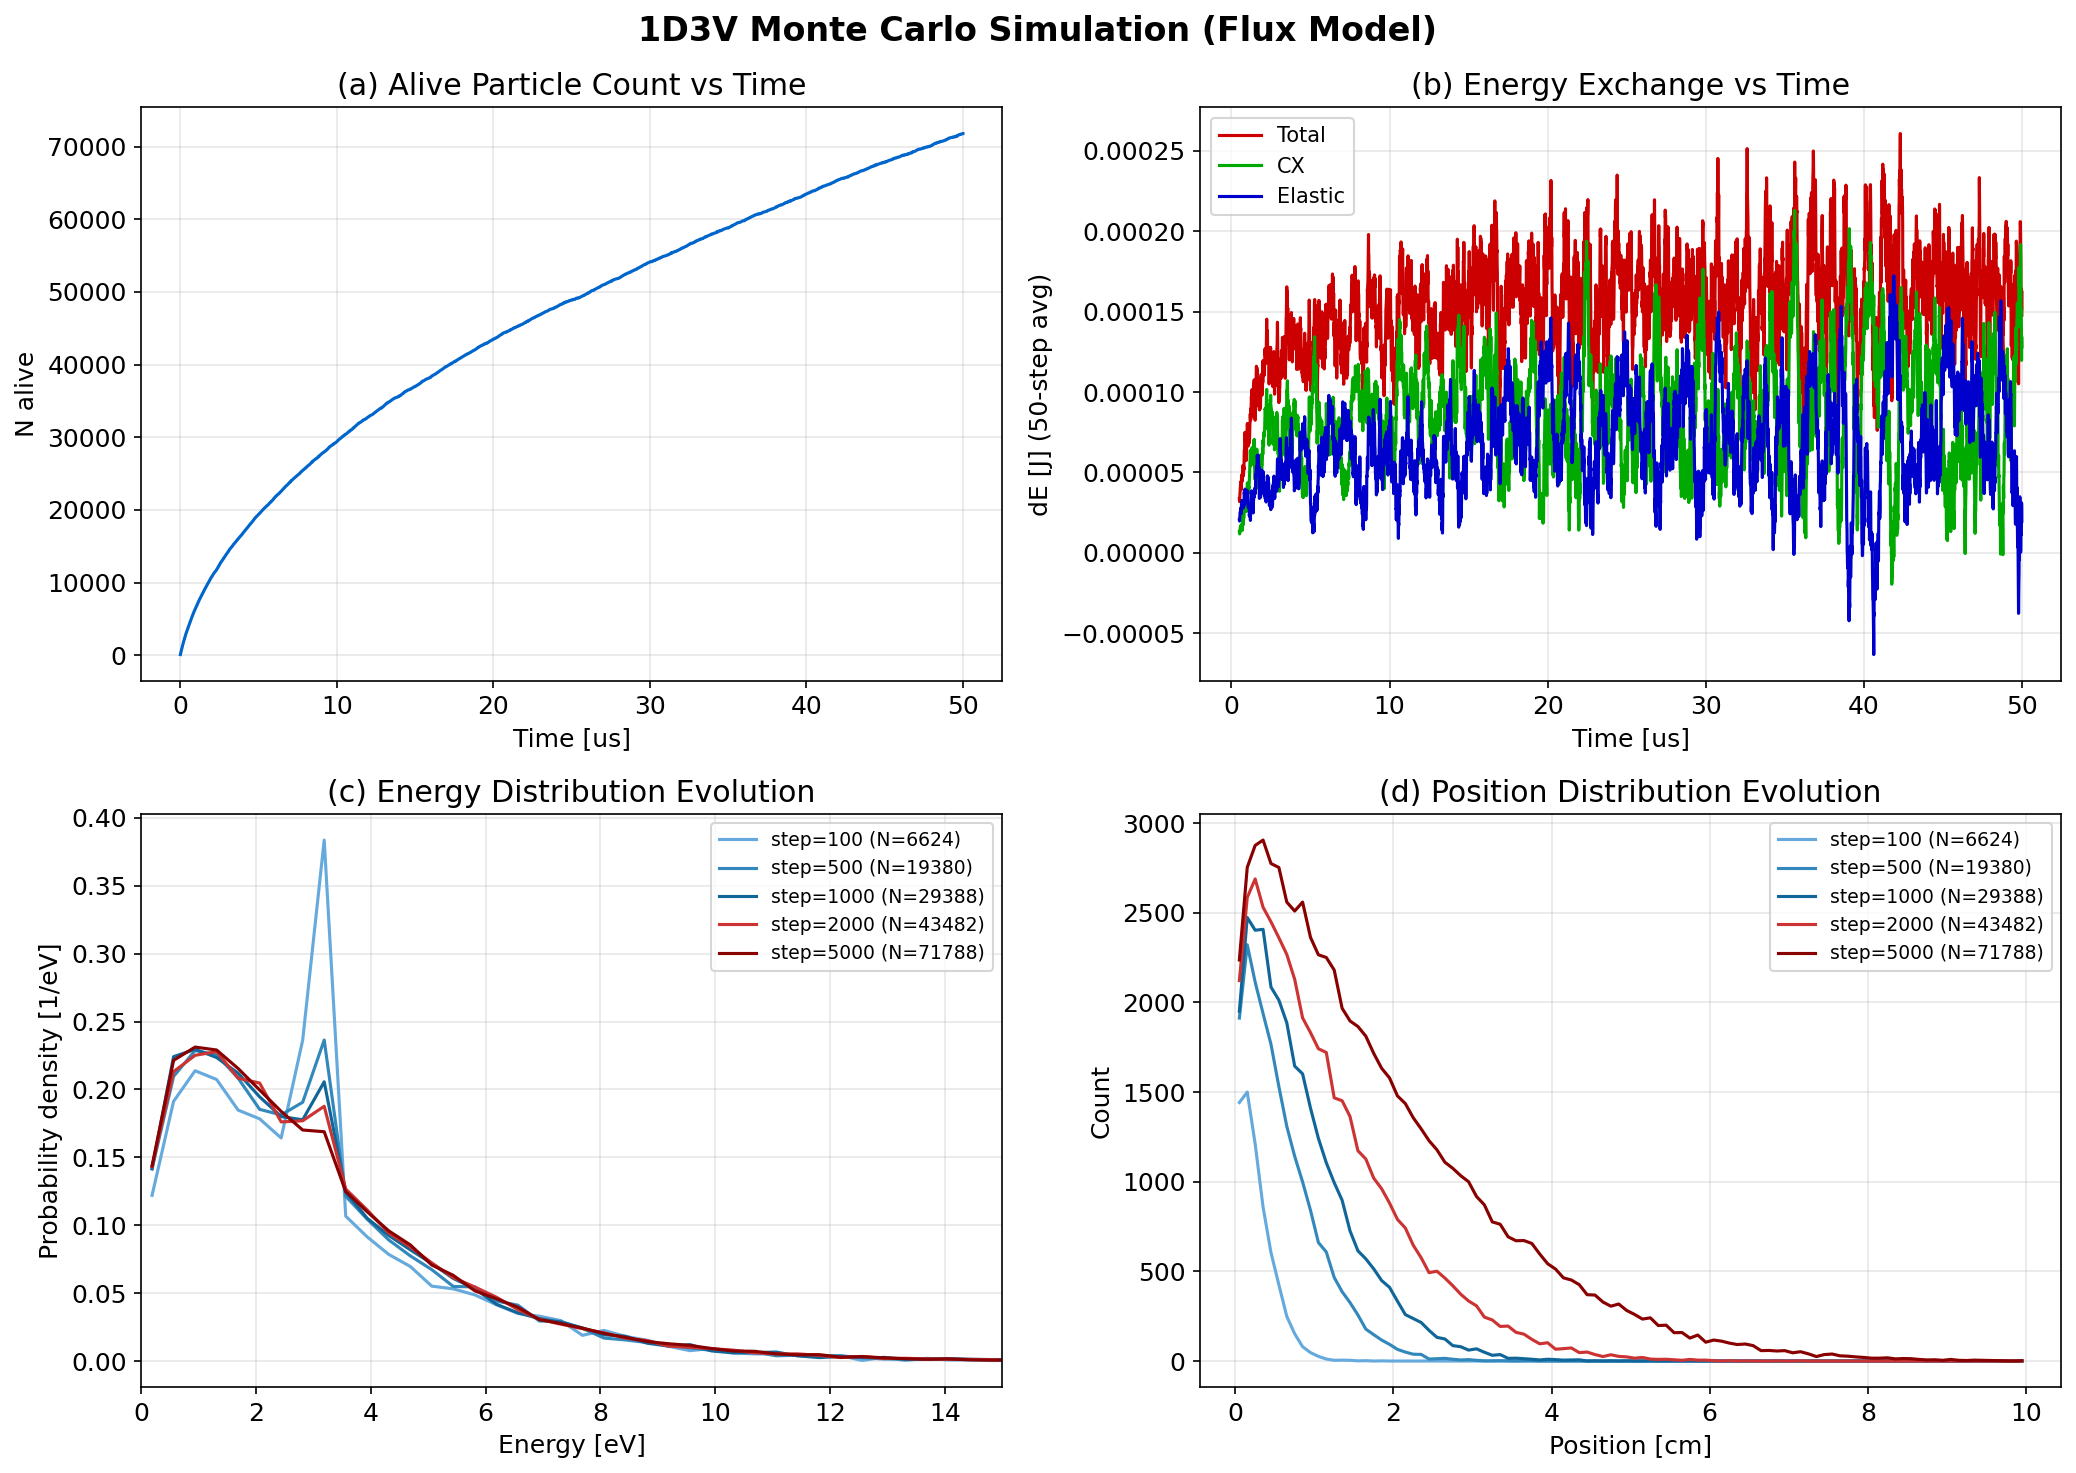
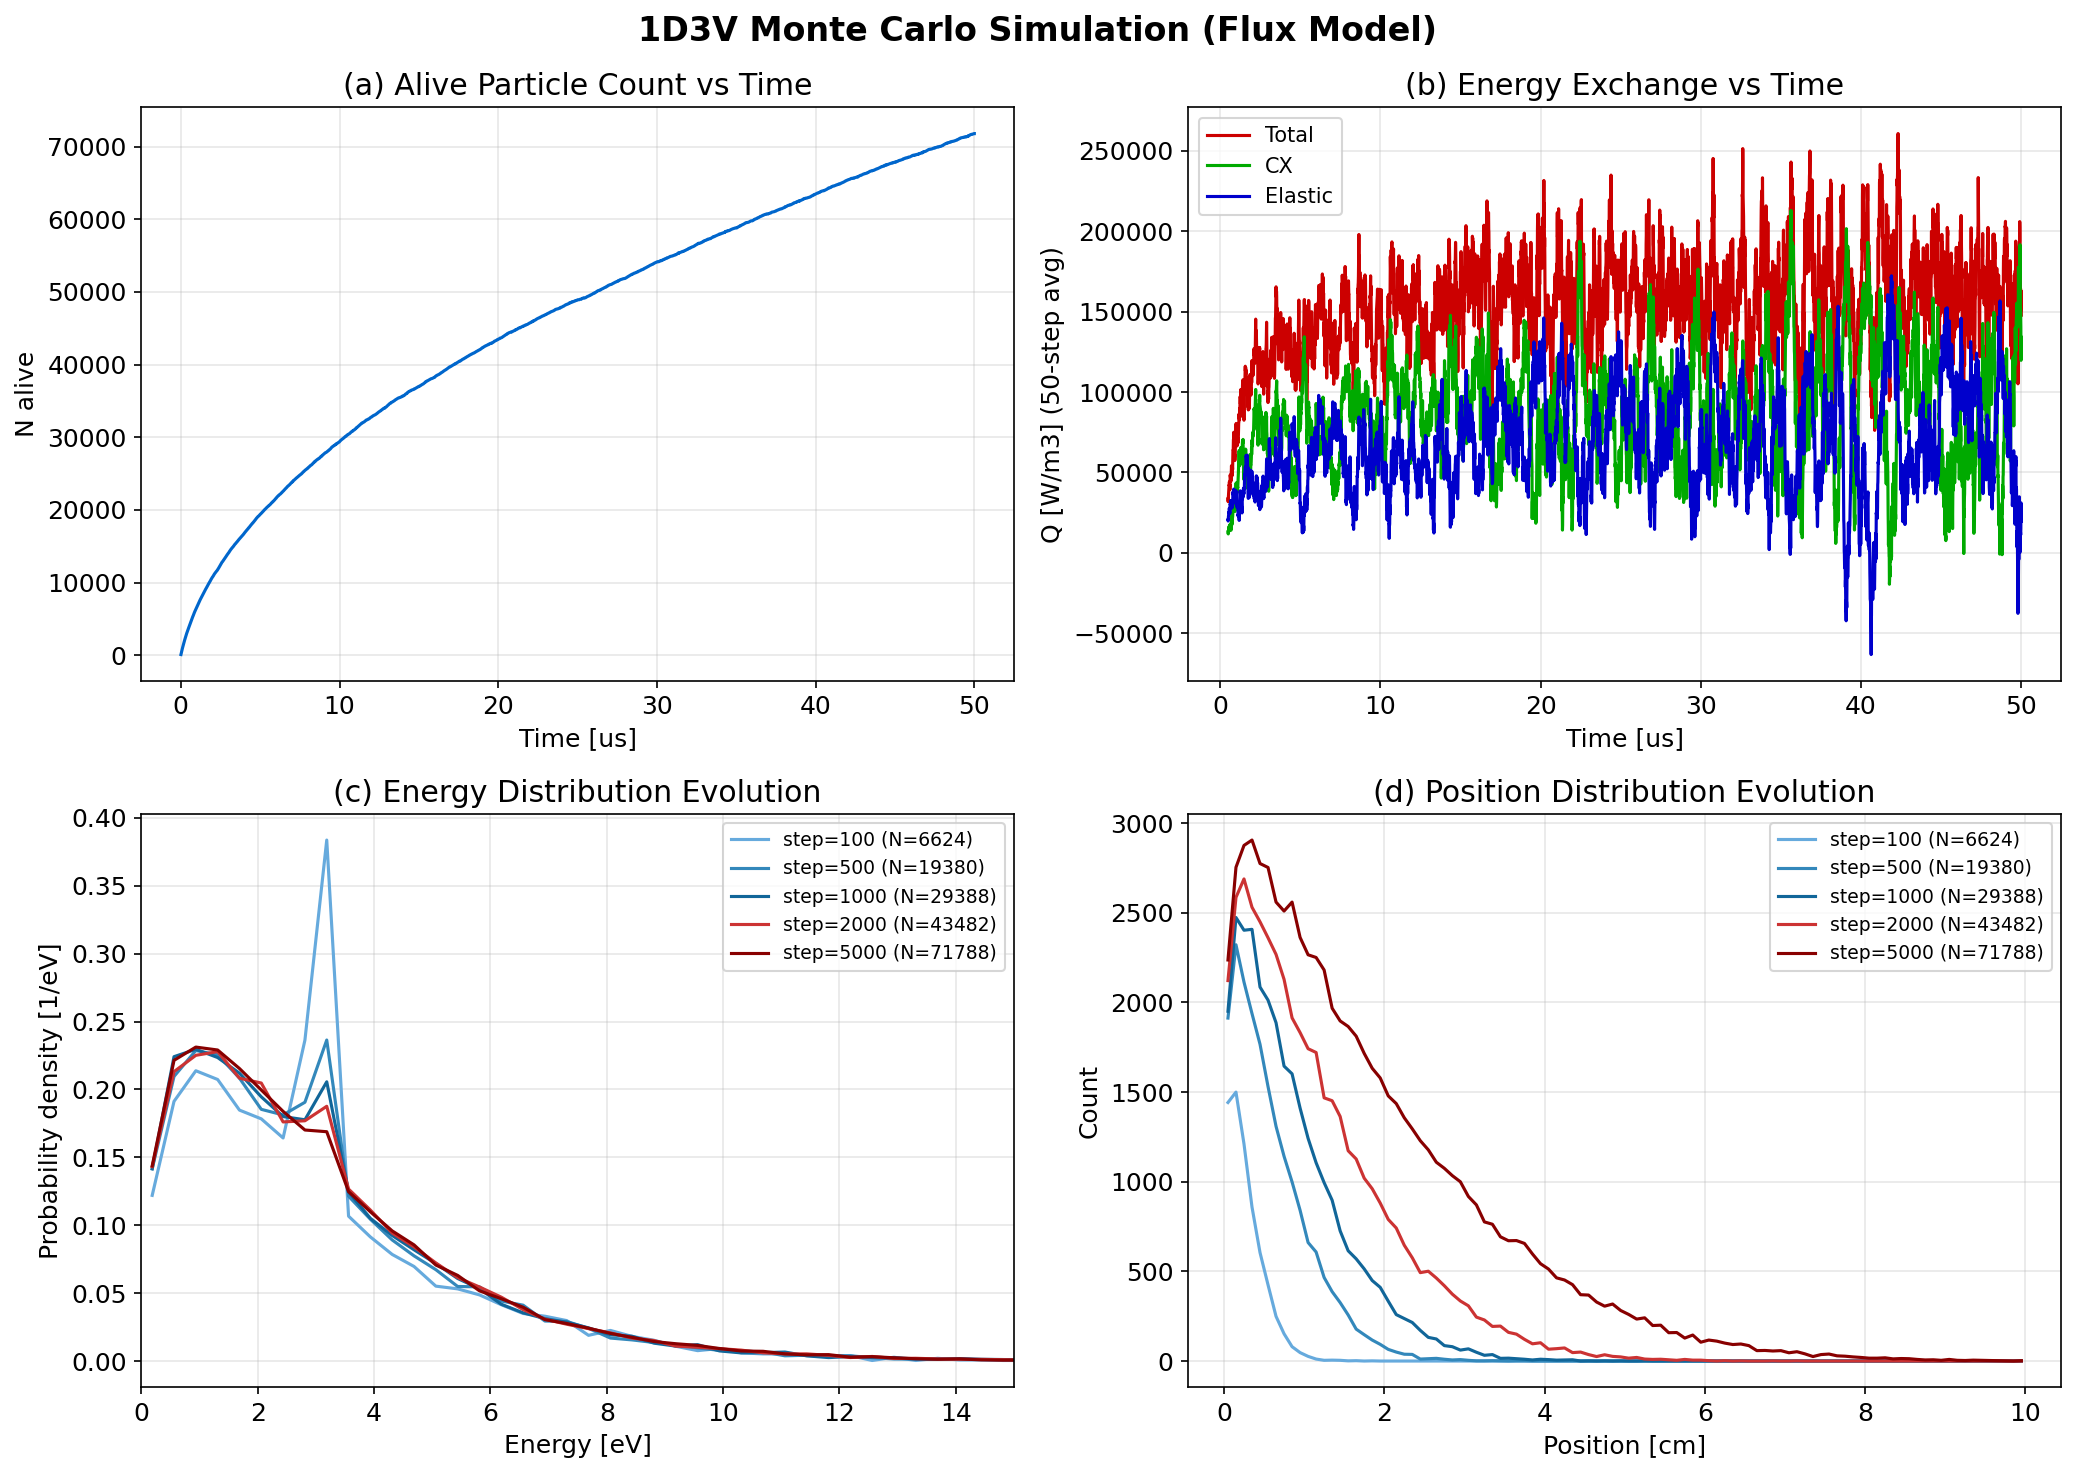
amend plot_results.py

diff --git a/monte_simulations_ai/1D3V_flux/plot_results.py b/monte_simulations_ai/1D3V_flux/plot_results.py
@@ -89,7 +89,7 @@ if len(dE_total_arr) > window:
     ax.plot(t_ma * 1e6, dE_cx_ma, color='#00AA00', linewidth=1.5, label='CX')
     ax.plot(t_ma * 1e6, dE_el_ma, color='#0000CC', linewidth=1.5, label='Elastic')
 ax.set_xlabel('Time [us]')
-ax.set_ylabel('dE [J] (50-step avg)')
+ax.set_ylabel('Q [W/m3] (50-step avg)')
 ax.set_title('(b) Energy Exchange vs Time')
 ax.legend(fontsize=10)
 ax.grid(True, alpha=0.3)
